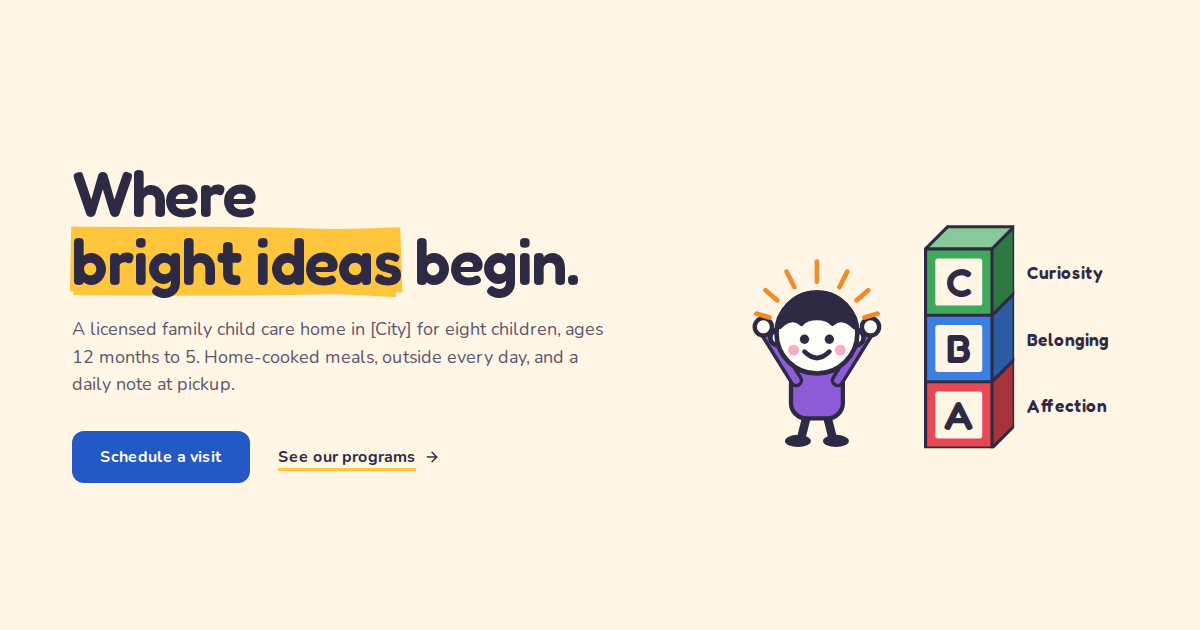
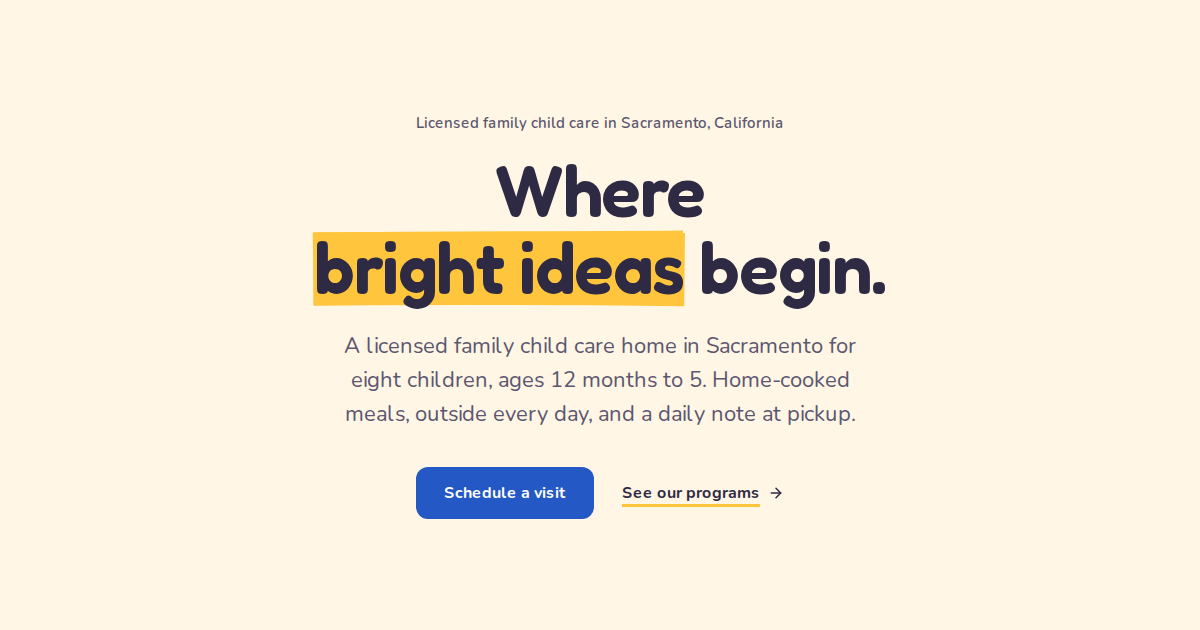
Centered text hero, no illustration; city set to Sacramento
Remove the hero scene (kid and tower) so the headline carries the first
screen, centered Cluely-style with the lede, one button, one text link,
and the trust line beneath. Set the city to Sacramento in the content,
page metadata, and address. Brand kit, README, CLAUDE.md, and the motion
skill updated to match.

Claude-Session: https://claude.ai/code/session_012hyVrbn37MDyNhVB1UDNbA

diff --git a/src/sections/hero.tsx b/src/sections/hero.tsx
@@ -1,5 +1,4 @@
 import { Baby, Clock, UtensilsCrossed, Users } from 'lucide-react'
-import { HeroScene } from '@/components/brand/hero-scene'
 import { Highlighter } from '@/components/motion/highlighter'
 import { Button } from '@/components/ui/button'
 import { Card, IconCircle } from '@/components/ui/card'
@@ -9,46 +8,41 @@ import { facts, hero } from '@/content/site'
 
 const factIcons = { clock: Clock, baby: Baby, home: Users, apple: UtensilsCrossed } as const
 
+/** A centered text hero: the headline carries the page, no illustration competes with it. */
 export function Hero() {
   return (
-    <section id="top" className="pt-10 pb-20 md:pt-16 md:pb-28">
+    <section id="top" className="pt-14 pb-20 md:pt-24 md:pb-28">
       <Container>
-        <div className="grid items-center gap-12 lg:grid-cols-[1.05fr_0.95fr] lg:gap-16">
-          <div className="max-w-[36rem]">
-            {/* On phones the scene sits above the headline, still; on desktop it takes the right column. */}
-            <HeroScene className="mb-8 w-full max-w-[360px] lg:hidden" />
-            <p className="text-[0.9375rem] font-semibold text-ink-soft">{hero.eyebrow}</p>
-            <h1 className="mt-3 font-display text-h1 font-semibold text-ink">
-              {hero.headline.before}
-              <Highlighter action="highlight" color="var(--color-marker)" strokeWidth={1} iterations={2} padding={4}>
-                {hero.headline.highlight}
-              </Highlighter>
-              {hero.headline.after}
-            </h1>
-            <p className="mt-5 max-w-[34rem] text-lede text-ink-soft">{hero.lede}</p>
-            <div className="mt-8 flex flex-wrap items-center gap-x-7 gap-y-4">
-              <Button href={hero.primaryCta.href} size="lg">
-                {hero.primaryCta.label}
-              </Button>
-              <Button href={hero.secondaryCta.href} variant="link" arrow>
-                {hero.secondaryCta.label}
-              </Button>
-            </div>
-            <p className="mt-7 flex flex-col gap-y-1 text-[0.9375rem] font-semibold text-ink-soft sm:flex-row sm:flex-wrap sm:gap-x-2.5">
-              {hero.proof.map((item, i) => (
-                <span key={item} className="inline-block whitespace-nowrap">
-                  {i > 0 && <span aria-hidden="true" className="mr-2.5 hidden text-line sm:inline">·</span>}
-                  {item}
-                </span>
-              ))}
-            </p>
+        <div className="mx-auto max-w-[46rem] text-center">
+          <p className="text-[0.9375rem] font-semibold text-ink-soft">{hero.eyebrow}</p>
+          <h1 className="mt-4 font-display text-h1 font-semibold text-ink">
+            {hero.headline.before}
+            <Highlighter action="highlight" color="var(--color-marker)" strokeWidth={1} iterations={2} padding={4}>
+              {hero.headline.highlight}
+            </Highlighter>
+            {hero.headline.after}
+          </h1>
+          <p className="mx-auto mt-6 max-w-[34rem] text-lede text-ink-soft">{hero.lede}</p>
+          <div className="mt-9 flex flex-wrap items-center justify-center gap-x-7 gap-y-4">
+            <Button href={hero.primaryCta.href} size="lg">
+              {hero.primaryCta.label}
+            </Button>
+            <Button href={hero.secondaryCta.href} variant="link" arrow>
+              {hero.secondaryCta.label}
+            </Button>
           </div>
-
-          <HeroScene className="mx-auto hidden w-full max-w-[540px] lg:block" animate />
+          <p className="mt-8 flex flex-col items-center gap-y-1 text-[0.9375rem] font-semibold text-ink-soft sm:flex-row sm:flex-wrap sm:justify-center sm:gap-x-2.5">
+            {hero.proof.map((item, i) => (
+              <span key={item} className="inline-block whitespace-nowrap">
+                {i > 0 && <span aria-hidden="true" className="mr-2.5 hidden text-line sm:inline">·</span>}
+                {item}
+              </span>
+            ))}
+          </p>
         </div>
 
         {/* At a glance: the four facts a parent scans for, as one contained object. */}
-        <Card as="ul" aria-label="At a glance" className="mt-16 grid grid-cols-1 gap-y-6 p-7 sm:grid-cols-2 md:mt-24 md:grid-cols-4 md:gap-x-8">
+        <Card as="ul" aria-label="At a glance" className="mt-16 grid grid-cols-1 gap-y-6 p-7 sm:grid-cols-2 md:mt-20 md:grid-cols-4 md:gap-x-8">
           {facts.map((fact) => {
             const Icon = factIcons[fact.icon]
             return (

diff --git a/index.html b/index.html
@@ -7,7 +7,7 @@
     <meta name="application-name" content="Little Thinkers" />
     <meta
       name="description"
-      content="Little Thinkers is a licensed family child care home in [City], California for children 12 months to 5 years. Home-cooked meals, outdoor play every day, and one simple daily rate."
+      content="Little Thinkers is a licensed family child care home in Sacramento, California for children 12 months to 5 years. Home-cooked meals, outdoor play every day, and one simple daily rate."
     />
     <meta name="theme-color" content="#FFF6E5" />
     <link rel="icon" href="/favicon.svg" type="image/svg+xml" />
@@ -15,7 +15,7 @@
     <!-- Link previews. After deploying, replace og:image with the full https:// URL of og.png. -->
     <meta property="og:type" content="website" />
     <meta property="og:title" content="Little Thinkers Family Child Care" />
-    <meta property="og:description" content="Where bright ideas begin. Licensed family child care in [City], CA for ages 12 months to 5 years." />
+    <meta property="og:description" content="Where bright ideas begin. Licensed family child care in Sacramento, CA for ages 12 months to 5 years." />
     <meta property="og:image" content="/og.png" />
     <meta name="twitter:card" content="summary_large_image" />
 

diff --git a/src/content/site.ts b/src/content/site.ts
@@ -7,12 +7,12 @@ export const site = {
   name: 'Little Thinkers',
   descriptor: 'Family Child Care',
   tagline: 'Where bright ideas begin.',
-  city: '[City]',
+  city: 'Sacramento',
   region: 'California',
   owner: '[Name]',
   phone: { display: '[(555) 555-0123]', href: 'tel:+15555550123' },
   email: { display: '[hello@yourdomain.com]', href: 'mailto:hello@example.com' },
-  address: ['[Street address]', '[City], CA [ZIP]'],
+  address: ['[Street address]', 'Sacramento, CA [ZIP]'],
   hours: { days: 'Monday to Friday', time: '8:00 am to 4:30 pm' },
   ages: '12 months to 5 years',
   license: '[pending]',

diff --git a/BRAND.md b/BRAND.md
@@ -43,14 +43,15 @@ size. Source: `Kid` in `src/components/brand/illustrations.tsx`. Favicon:
 **Wordmark.** "Little Thinkers" in Fredoka 600, ink, always on one line. "Family Child
 Care" beneath it in the 13px label style (ink-soft), hidden on phones.
 
-**Sizes.** Header 36px, footer 32px, full-figure in the hero scene (desktop right column,
-above the headline on phones), favicon. Never below 24px.
+**Sizes.** Header 36px, footer 32px, about 96px in the photo placeholder, favicon. Never
+below 24px.
 
 **Clear space.** At least half the mark's height on every side. Nothing overlaps it.
 
 **Don't.** Recolor the outline, add gradients or shadows, rotate it, place it on a tinted
-band, use it as a bullet, or pair it with a second mascot. The kid appears as logo
-(header, footer, favicon, share image) and, with a body, in the hero scene. Nowhere else.
+band, use it as a bullet, or pair it with a second mascot. The kid appears as the logo
+(header, footer, favicon) and in the photo placeholder until a real photo exists. It is
+not in the hero: the headline carries the hero alone.
 
 ## 3. Color
 
@@ -150,15 +151,14 @@ joins, no gradients, no shadows, no wobble filters. Every drawing takes its colo
 
 | Asset | Where it appears | Where it must not |
 | --- | --- | --- |
-| The kid | Header, footer, favicon, share image, the hero scene (full figure), the photo placeholder | Bullets, cards, backgrounds |
-| Alphabet blocks | The hero tower (A Affection at the base, B Belonging, C Curiosity on top) and Our ABCs at 96px, where the letters are the content | Program cards, icons |
+| The kid | Header, footer, favicon, the photo placeholder | The hero, bullets, cards, backgrounds |
+| Alphabet blocks | Our ABCs at 96px, where the letters are the content | The hero, program cards, icons |
 | Handprints | One cluster of three overlapping prints in the Visit section | Rows, footers, backgrounds |
 | Marker highlight | The word "bright ideas" in the hero and "aha moments" in the pull quote (two per page, maximum) | Nav, labels, buttons |
 | Icons | Lucide only, 20px, stroke 1.75, ink, inside a 40px hairline circle | Emoji, hand-drawn icons |
 
-Composition rule: every drawing means something. The hero scene is the kid celebrating
-beside the tower of the three values, the building blocks of early life; the words beside
-the blocks come from the Our ABCs content so the two always match. No prop is ever added
+Composition rule: every drawing means something, and the hero has none. The headline,
+the marker, and whitespace carry the first screen (the Cluely move). No prop is ever added
 just to fill space. Stars, suns, crayon fans, and squiggles stay out of the kit.
 
 Photos: the About section wants a real photo of the owner in the space, 4:5, in the white
@@ -178,8 +178,6 @@ Allowed, with the values used:
   values. Never more than four children.
 - Highlighter: rough-notation draws the marker over 0.7s, once, when in view; static
   under reduced motion.
-- Hero settle: on desktop, the top block of the tower lowers 22px into place over 0.7s once
-  on load, then the kid's rays fade in over 0.4s. Still on phones and under reduced motion.
 - Hover and focus: color changes over 0.15 to 0.2s (button fill, link underline, nav
   underline, header shadow). No movement on hover.
 - Mobile menu: opacity and a 8px slide over 0.22s. FAQ accordion: height over 0.3s.
@@ -225,10 +223,9 @@ height, top, or left.
 ## 10. Page blueprint
 
 1. **Header.** Brand, About, Programs, Our day, Tuition, FAQ, Schedule a visit.
-2. **Hero.** Location line, h1 with the marker on "bright ideas", a two-sentence lede with
-   the facts a parent scans for, one button and one text link, a one-line trust list, and the
-   hero scene: the kid celebrating beside the tower of blocks labeled Affection, Belonging,
-   and Curiosity. Phones show the same scene, still, above the headline.
+2. **Hero.** Centered: location line, h1 with the marker on "bright ideas", a two-sentence
+   lede with the facts a parent scans for, one button and one text link, and a one-line trust
+   list. No illustration; the headline is the hero.
 3. **Facts strip.** Hours, ages, group size, meals. Stated once, here.
 4. **About.** Photo mat, "Hi, I'm [Name].", two paragraphs, the pull quote, credentials.
 5. **Programs.** Three cards: Young toddlers, Toddlers, Preschool.
@@ -251,11 +248,11 @@ The specific choices that keep this from reading as template-made. Check before 
 - [ ] Fredoka only at 600 on headings; Nunito for all interface text; handwriting once.
 - [ ] Each drawing has one home (section 7). Blocks are content, not bullets.
 - [ ] The marker appears twice at most, drawn, never stretched.
-- [ ] The hero illustration means something (the tower of values), not a scatter of props.
+- [ ] The hero is typography and whitespace, not a scatter of props.
 - [ ] Icons are Lucide in hairline circles. No emoji, no metaphor icons.
 - [ ] The copy keeps its specifics (snap peas, three books, hugs at the door) and has no
       brochure words.
-- [ ] Nothing bounces, tilts, or glows. One settle, one drawn mark, one reveal style.
+- [ ] Nothing bounces, tilts, or glows. One drawn mark, one reveal style.
 
 ## 12. Tokens
 

diff --git a/.claude/skills/framer-motion/SKILL.md b/.claude/skills/framer-motion/SKILL.md
@@ -19,7 +19,7 @@ Do not add per-component media queries for that; do not remove the wrapper.
 ## Brand motion rules (from BRAND.md, section 8)
 
 1. **Motion explains, it never decorates.** Animate at most one or two things per screen.
-2. **Allowed:** scroll reveals (opacity 0→1, rise of 8–14px, 0.4–0.5s, `[0.22, 1, 0.36, 1]`), staggered card entrances (0.06–0.1s apart), hover lifts of 1–2px with a shadow change, the FAQ accordion height transition (0.3s), the two rough-notation marks, and the one-time hero settle (the top block lowers into place, then the rays fade in) on desktop only.
+2. **Allowed:** scroll reveals (opacity 0→1, rise of 8–14px, 0.4–0.5s, `[0.22, 1, 0.36, 1]`), staggered card entrances (0.06–0.1s apart), hover lifts of 1–2px with a shadow change, the FAQ accordion height transition (0.3s), and the two rough-notation marks.
 3. **Forbidden:** parallax, scroll-jacking, particle or beam backgrounds, text scramble or typewriter effects, spring bounces on entrances, rotating or flipping cards, infinite marquees of anything but logos, autoplaying carousels, loops of any kind, animations longer than 0.8s, animating `width`, `height`, `top`, or `left` (use transforms and opacity only).
 4. **Everything meant to be read is visible at rest.** Reveals start from a hidden state only when the element is below the fold; the hero never hides its text.
 

diff --git a/README.md b/README.md
@@ -29,7 +29,6 @@ Node 20 or newer.
 | `src/components/ui/` | Button, Card, Container, Section, headings, labels |
 | `src/components/motion/` | Reveal, AnimatedGroup, Accordion, Highlighter |
 | `src/components/brand/illustrations.tsx` | Kid mascot, handprint, alphabet block |
-| `src/components/brand/hero-scene.tsx` | The hero illustration: the kid beside the tower of the three values |
 | `BRAND.md` | The brand kit |
 | `NAME-RESEARCH.md` | Why the site isn't called Little Thinkers, and the alternatives checked |
 | `.claude/skills/` | Project skills: framer-motion, 21st-dev-components, ui-ux-pro-max |
@@ -39,7 +38,7 @@ Node 20 or newer.
 
 Open `src/content/site.ts`. Everything in `[square brackets]` is a placeholder:
 
-- `city`, `address`, `phone`, `email`, `license`, `owner`
+- `address` (the street and ZIP), `phone`, `email`, `license`, `owner`
 - In `about`: the credentials list (`[units or degree]`, `[X] years`)
 - The photo: in `src/sections/about.tsx`, replace the placeholder block with an `<img>` (there is a comment showing how). Put the file in `public/`.
 

diff --git a/CLAUDE.md b/CLAUDE.md
@@ -27,7 +27,7 @@ TypeScript + Tailwind CSS v4 + Motion (`motion/react`). No backend.
 
 ## Rules
 
-- Keep effects light: scroll reveals, color-only hovers, the FAQ accordion, the hero
-  highlight, and the one-time hero block settle are the whole motion vocabulary.
+- Keep effects light: scroll reveals, color-only hovers, the FAQ accordion, and the two
+  drawn marker highlights are the whole motion vocabulary.
 - Every text/background pair must pass 4.5:1. The `-deep` crayon variants exist for text.
 - Placeholders stay in [square brackets] until the owner supplies the real values.
